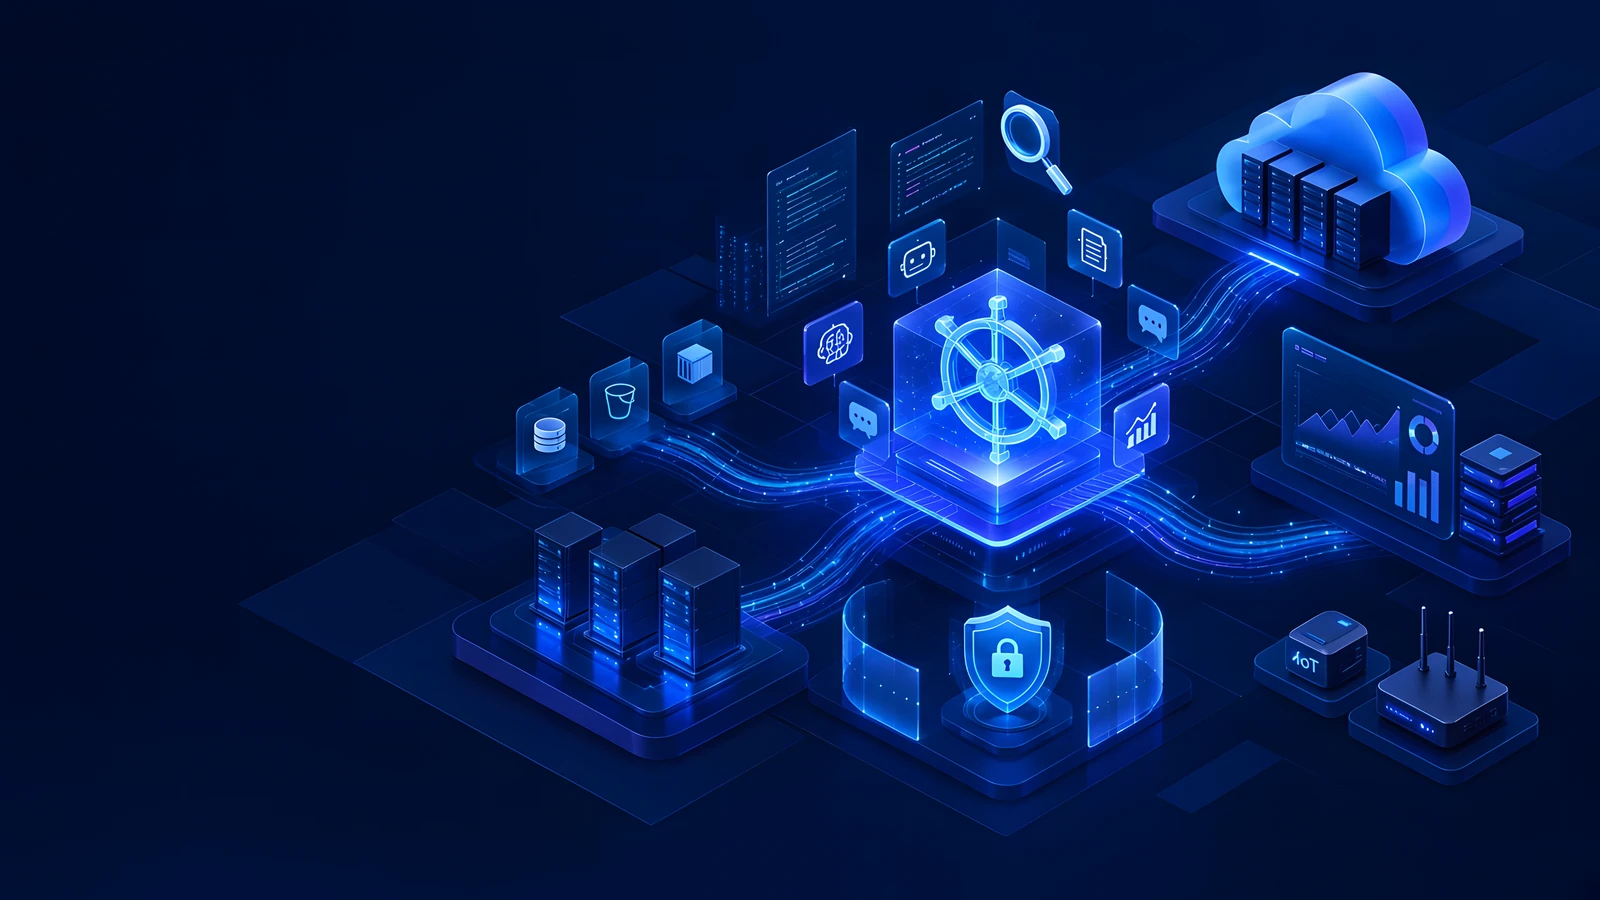
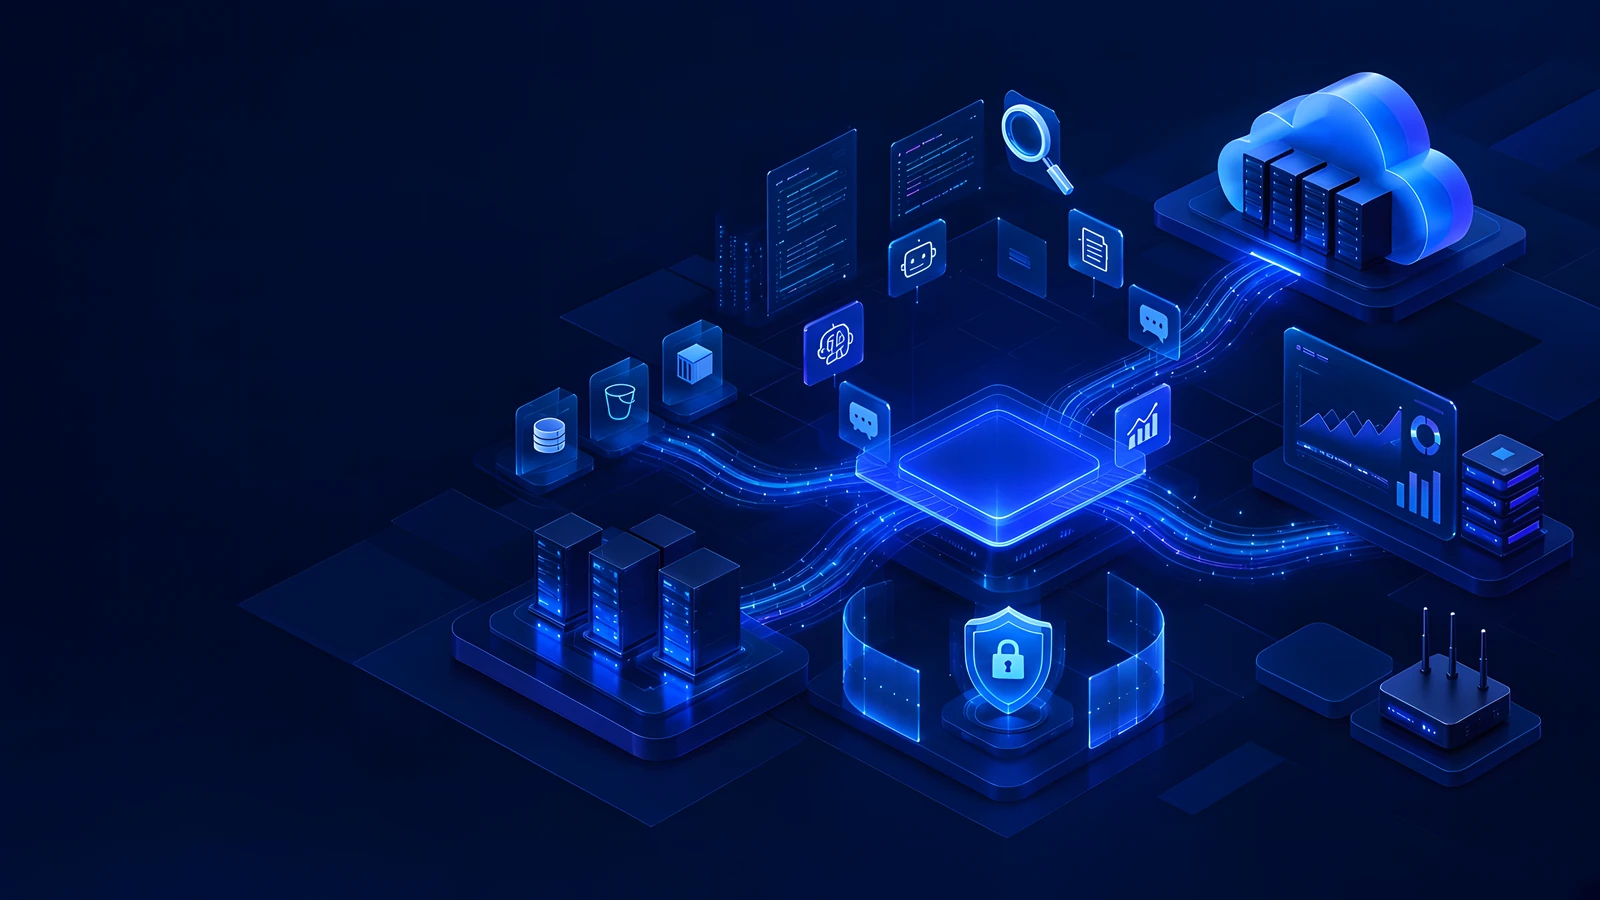
히어로 가운데에 돌아가는 쿠버네티스 큐브를 올린다 (#9)
비운 플랫폼 위에 유리 재질의 3D 큐브를 두고, 화면 크기에 맞춰 그림과 같이 움직이게 했다.

diff --git a/src/styles/global.css b/src/styles/global.css
@@ -459,6 +459,7 @@ h4 {
   border-radius: 18px;
   overflow: hidden;
   aspect-ratio: 1280 / 620;
+  container-type: size;
   border: 1px solid rgba(120, 170, 255, 0.55);
   box-shadow:
     inset 0 1px 0 rgba(190, 215, 255, 0.4),
@@ -467,14 +468,136 @@ h4 {
   background: #07122e;
 }
 
-.hero-banner img {
+.hero-stage {
+  position: absolute;
+  left: 0;
+  top: 50%;
+  width: max(100cqw, calc(100cqh * 16 / 9));
+  height: max(100cqh, calc(100cqw * 9 / 16));
+  transform: translateY(-50%);
+  container-type: inline-size;
+}
+
+.hero-stage img {
   display: block;
   width: 100%;
   height: 100%;
   max-width: none;
-  object-fit: cover;
-  object-position: left center;
+  object-fit: fill;
   filter: none;
+}
+
+.kube-shadow {
+  position: absolute;
+  left: 62.5%;
+  top: 51%;
+  z-index: 1;
+  width: 18%;
+  height: 8%;
+  transform: translate(-50%, -40%);
+  background: radial-gradient(ellipse at center, rgba(56, 189, 248, 0.72), rgba(37, 99, 235, 0.28) 42%, transparent 72%);
+  filter: blur(7px);
+  pointer-events: none;
+}
+
+.kube-anchor {
+  --cube: 13cqi;
+  position: absolute;
+  left: 62.5%;
+  top: 40%;
+  z-index: 2;
+  width: var(--cube);
+  aspect-ratio: 1;
+  transform: translate(-50%, -50%);
+  transform-style: preserve-3d;
+  perspective: calc(var(--cube) * 4.4);
+  pointer-events: none;
+}
+
+.kube-float,
+.kube-spin,
+.kube-cube {
+  width: 100%;
+  height: 100%;
+  transform-style: preserve-3d;
+}
+
+.kube-float {
+  animation: kube-float 5.6s ease-in-out infinite;
+}
+
+.kube-spin {
+  transform: rotateX(-20deg) rotateY(32deg);
+  animation: kube-spin 14s linear infinite;
+}
+
+.kube-cube {
+  position: relative;
+}
+
+.kube-face {
+  position: absolute;
+  inset: 0;
+  display: grid;
+  place-items: center;
+  background: rgba(37, 99, 235, 0.18);
+  border: 1px solid rgba(125, 211, 252, 0.82);
+  box-shadow:
+    inset 0 0 16px rgba(56, 189, 248, 0.48),
+    0 0 10px rgba(34, 211, 238, 0.28);
+  backdrop-filter: blur(8px) saturate(150%);
+  -webkit-backdrop-filter: blur(8px) saturate(150%);
+  backface-visibility: hidden;
+}
+
+.kube-face svg {
+  width: 64%;
+  height: 64%;
+  color: #a5f3fc;
+  filter: drop-shadow(0 0 4px rgba(34, 211, 238, 0.95));
+}
+
+.kube-face-front {
+  transform: translateZ(calc(var(--cube) / 2));
+}
+
+.kube-face-back {
+  transform: rotateY(180deg) translateZ(calc(var(--cube) / 2));
+}
+
+.kube-face-right {
+  transform: rotateY(90deg) translateZ(calc(var(--cube) / 2));
+}
+
+.kube-face-left {
+  transform: rotateY(-90deg) translateZ(calc(var(--cube) / 2));
+}
+
+.kube-face-top {
+  transform: rotateX(90deg) translateZ(calc(var(--cube) / 2));
+}
+
+.kube-face-bottom {
+  transform: rotateX(-90deg) translateZ(calc(var(--cube) / 2));
+}
+
+@keyframes kube-spin {
+  from {
+    transform: rotateX(-20deg) rotateY(0deg);
+  }
+  to {
+    transform: rotateX(-20deg) rotateY(360deg);
+  }
+}
+
+@keyframes kube-float {
+  0%,
+  100% {
+    transform: translateY(0);
+  }
+  50% {
+    transform: translateY(-7%);
+  }
 }
 
 .hero-banner::after {
@@ -488,7 +611,7 @@ h4 {
 
 .hero-copy {
   position: absolute;
-  z-index: 1;
+  z-index: 3;
   inset: 0 auto 0 0;
   display: flex;
   flex-direction: column;
@@ -552,18 +675,24 @@ h4 {
     aspect-ratio: 16 / 10;
   }
 
-  .hero-banner img {
-    object-position: center right;
+  .hero-stage {
+    left: auto;
+    right: 0;
+  }
+
+  .kube-anchor {
+    --cube: 11.5cqi;
   }
 
   .hero-copy {
-    width: min(18rem, 78%);
-    padding: 0.9rem 0.95rem 1.2rem;
-    background: linear-gradient(90deg, rgba(5, 11, 31, 0.82) 0%, rgba(5, 11, 31, 0.45) 78%, transparent 100%);
+    width: min(13rem, 50%);
+    padding: 0.75rem 0.7rem 1rem;
+    background: linear-gradient(90deg, rgba(5, 11, 31, 0.86) 0%, rgba(5, 11, 31, 0.5) 82%, transparent 100%);
   }
 
   .hero-title {
-    font-size: 1.65rem;
+    font-size: 1.25rem;
+    white-space: nowrap;
   }
 
   .hero-sub {
@@ -1729,7 +1858,9 @@ pre.astro-code code {
   .jump-nav a,
   .topic-list a,
   .tag-pill,
-  .post-list a.post-row {
+  .post-list a.post-row,
+  .kube-spin,
+  .kube-float {
     animation: none;
     transition: none;
   }
